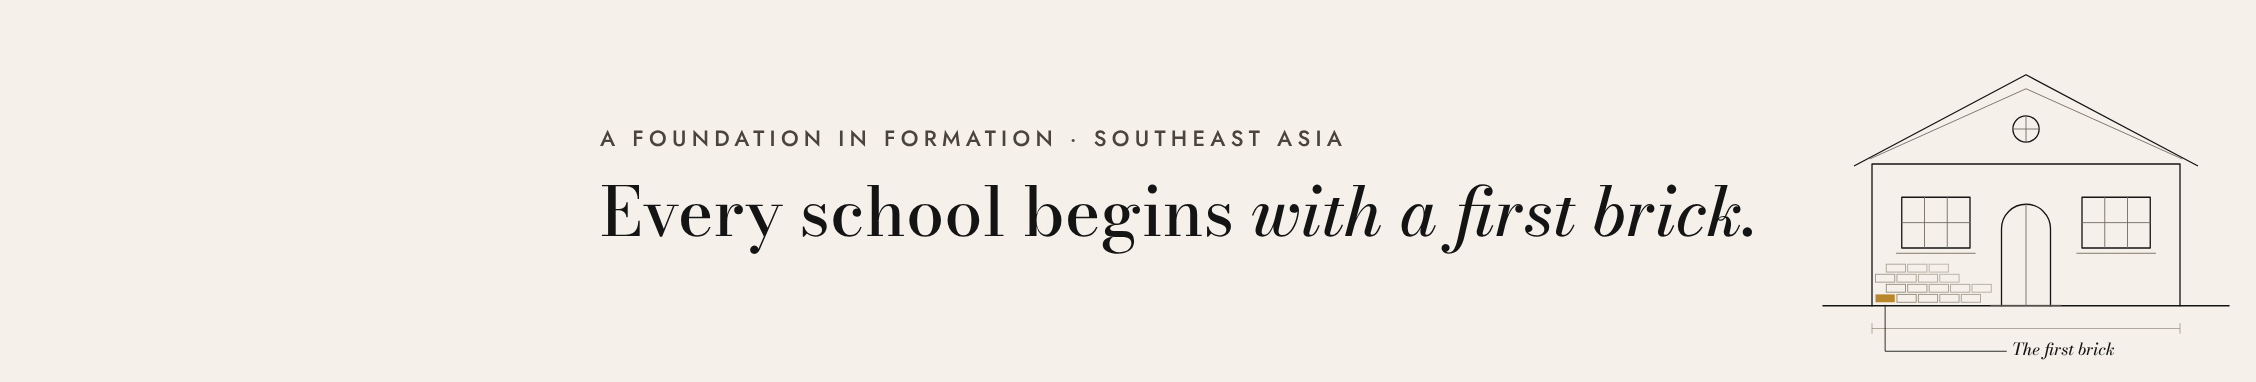
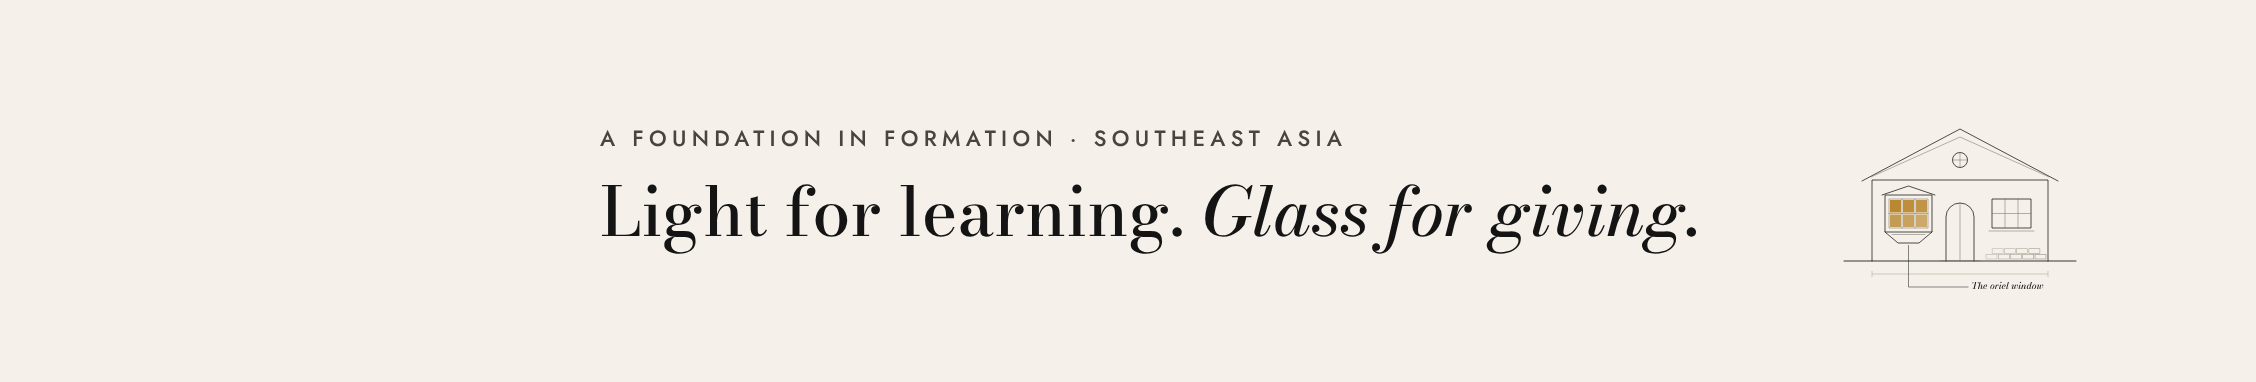
이름 변경: First Brick → Oriel Foundation (오리엘 재단 · 明窗基金會)
- 카피: Light for learning. Glass for giving. / 배움에는 빛을, 기부에는 창을.
- 히어로 입면도의 왼쪽 창을 오리엘 창으로, 금색은 창 유리에만
- 로고·파비콘·단계 아이콘·og·브랜드 이미지·릴스 템플릿 교체
- 활동 일지 첫 글 제목과 주소 변경, 읽을거리 No.1·W44 홍보물 문구 정리

Claude-Session: https://claude.ai/code/session_01WP8fmT9o6LiNAey7aEXGF7

diff --git a/marketing/reel/index.html b/marketing/reel/index.html
@@ -2,11 +2,11 @@
 <html lang="en">
 <head>
 <meta charset="utf-8">
-<title>First Brick reel</title>
+<title>Oriel reel</title>
 <!-- 1080×1920 결정적 모션: window.seek(t)로 프레임을 그린다. 문구·장면은 reel.js(window.REEL = reel.json 내용)에서 읽는다. -->
 <link href="https://fonts.googleapis.com/css2?family=Bodoni+Moda:ital,opsz,wght@0,6..96,400..600;1,6..96,400..500&family=Jost:wght@300..500&family=Noto+Sans+KR:wght@400;500&family=Nanum+Myeongjo:wght@400;700&display=block" rel="stylesheet">
 <style>
-/* 메종 톤: 아이보리 · 먹 · 밤의 남색 · 금색은 첫 벽돌 하나에만 */
+/* 메종 톤: 아이보리 · 먹 · 밤의 남색 · 금색은 오리엘 창의 유리에만 */
 :root { --paper:#F5F1EA; --ink:#141414; --muted:#4A443C; --text:#26221E; --line:#6F685E; --rule:#CBC1B0; --blue:#1B2440; --mari:#B8862D; }
 html,body { margin:0; width:1080px; height:1920px; overflow:hidden; background:var(--paper); }
 #stage * { font-variation-settings:"opsz" 11 !important; }
@@ -23,8 +23,10 @@ html,body { margin:0; width:1080px; height:1920px; overflow:hidden; background:v
 .lang-ko .h.it { font-style:normal; }
 .lang-ko .p { font-family:"Noto Sans KR"; }
 .step { position:absolute; left:120px; right:120px; text-align:center; }
-.step .course { display:flex; gap:10px; margin:0 auto 14px; width:440px; }
-.step .course i { height:24px; flex:1; box-sizing:border-box; border:2px solid var(--line); }
+.step .win { width:330px; margin:0 auto; border:3px solid var(--ink); padding:8px; }
+.step .course { display:flex; gap:8px; margin:0 0 8px; }
+.step .course:last-child { margin-bottom:0; }
+.step .course i { height:44px; flex:1; box-sizing:border-box; outline:1.5px solid var(--line); outline-offset:3px; }
 .step h3 { margin:26px 0 12px; font:500 80px/1 "Bodoni Moda","Nanum Myeongjo",serif; font-variation-settings:"opsz" 11; }
 .step p { margin:0 auto; font:400 40px/1.45 Jost,"Noto Sans KR",sans-serif; color:var(--text); max-width:820px; }
 .end { position:absolute; inset:0; background:var(--blue); color:var(--paper); }
@@ -50,23 +52,27 @@ html,body { margin:0; width:1080px; height:1920px; overflow:hidden; background:v
   const ease = (x) => x <= 0 ? 0 : x >= 1 ? 1 : 1 - Math.pow(1 - x, 3);
   const win = (t, a, b) => ease((t - a) / (b - a));
   const el = (tag, cls, html) => { const e = document.createElement(tag); if (cls) e.className = cls; if (html != null) e.innerHTML = html; return e; };
-  const mark = '<b>FIRST BRICK</b><small>FOUNDATION</small>';
+  const mark = '<b>ORIEL</b><small>FOUNDATION</small>';
 
-  // 학교 입면도 (사이트 히어로와 같은 그림: 가는 선, 첫 벽돌만 금잔화색)
+  // 학교 입면도 (사이트 히어로와 같은 그림: 가는 선, 왼쪽 오리엘 창의 유리만 금빛)
   function houseSVG() {
     const G = 338, bx0 = 64, bx1 = 416, by0 = 176; let k = 0; const P = [];
     const L = (d, cls) => P.push(`<path class="${cls || "ln"}" pathLength="1" data-d="${k++}" d="${d}"/>`);
     L(`M8 ${G}H472`, "ln ground"); L(`M${bx0} ${G}V${by0}H${bx1}V${G}`); L(`M44 ${by0 + 2}L240 74L436 ${by0 + 2}`); L(`M62 ${by0 - 6}L240 90L418 ${by0 - 6}`, "ln thin");
     P.push(`<circle class="ln" pathLength="1" data-d="${k++}" cx="240" cy="136" r="15"/>`); L(`M225 136H255M240 121V151`, "ln thin");
-    for (const x of [98, 304]) { L(`M${x} 214h78v58h-78z`); L(`M${x + 26} 214v58M${x + 52} 214v58M${x} 243h78`, "ln thin"); L(`M${x - 6} 278h90`, "ln thin"); }
+    const ox = 98, oy = 214, ow = 78, oh = 58, glow = [];
+    for (let r = 0; r < 2; r++) for (let c = 0; c < 3; c++) glow.push(`<rect x="${ox + c * 26 + 2}" y="${oy + r * 29 + 2}" width="22" height="25" opacity="${(0.98 - (r * 3 + c) * 0.06).toFixed(2)}"/>`);
+    L(`M${ox - 8} ${oy - 8}h${ow + 16}v${oh + 16}h-${ow + 16}z`); L(`M${ox} ${oy}h${ow}v${oh}h-${ow}z`, "ln thin"); L(`M${ox + 26} ${oy}v${oh}M${ox + 52} ${oy}v${oh}M${ox} ${oy + 29}h${ow}`, "ln thin");
+    L(`M${ox - 14} ${oy - 8}L${ox + ow / 2} ${oy - 26}L${ox + ow + 14} ${oy - 8}`); L(`M${ox - 8} ${oy + oh + 8}L${ox + 18} ${oy + oh + 30}H${ox + ow - 18}L${ox + ow + 8} ${oy + oh + 8}`); L(`M${ox + 6} ${oy + oh + 13}H${ox + ow - 6}`, "ln thin");
+    L(`M304 214h78v58h-78z`); L(`M330 214v58M356 214v58M304 243h78`, "ln thin"); L(`M298 278h90`, "ln thin");
     L(`M212 ${G}V250a28 28 0 0 1 56 0V${G}`); L(`M240 222V${G}`, "ln thin"); L(`M200 ${G - 0.5}h80`, "ln thin");
     const bw = 22, bh = 9, g = 2.5, H = [];
-    for (let r = 0; r < 4; r++) { const off = r % 2 ? (bw + g) / 2 : 0, n = 5 - (r === 3 ? 2 : r === 2 ? 1 : 0);
-      for (let c = 0; c < n; c++) { if (!r && !c) continue; const x = bx0 + 4 + off + c * (bw + g), y = G - 4 - (r + 1) * (bh + g) + g;
-        H.push(`<rect class="hatch" data-d="${r * 5 + c}" data-o="${(1 - (r * 0.1 + c * 0.07)).toFixed(2)}" x="${x}" y="${y}" width="${bw}" height="${bh}"/>`); } }
-    const fx = bx0 + 4, fy = G - 4 - bh;
+    for (let r = 0; r < 2; r++) { const off = r % 2 ? (bw + g) / 2 : 0, n = r ? 4 : 5;
+      for (let c = 0; c < n; c++) { const x = bx1 - 4 - bw - off - c * (bw + g), y = G - 4 - (r + 1) * (bh + g) + g;
+        H.push(`<rect class="hatch" data-d="${r * 5 + c}" data-o="${(1 - (r * 0.15 + c * 0.1)).toFixed(2)}" x="${x}" y="${y}" width="${bw}" height="${bh}"/>`); } }
+    const cx = ox + ow / 2, cy = oy + oh + 34;
     const wrap = document.createElement("div");
-    wrap.innerHTML = `<svg viewBox="0 0 480 400" style="width:100%;overflow:visible"><style>.ln{fill:none;stroke:#141414;stroke-width:1.6;stroke-linecap:round;stroke-linejoin:round;stroke-dasharray:1}.ln.thin{stroke-width:1.1;stroke:#6F685E}.ln.ground{stroke-width:1.8}.hatch{fill:none;stroke:#857C6F;stroke-width:1.1}.dim{fill:none;stroke:#9C9385;stroke-width:1}.co path{fill:none;stroke:#141414;stroke-width:1.1}.co text{font:italic 500 19px "Bodoni Moda",serif;fill:#141414}</style>${P.join("")}${H.join("")}<rect class="first" x="${fx}" y="${fy}" width="${bw}" height="${bh}" fill="#B8862D"/><path class="dim" d="M${bx0} ${G + 26}H${bx1}M${bx0} ${G + 20}v12M${bx1} ${G + 20}v12"/><g class="co"><path d="M${fx + bw / 2} ${fy + bh + 3}V${G + 52}H${fx + 150}"/><text x="${fx + 156}" y="${G + 56}">${C.lang === "ko" ? "첫 벽돌" : "The first brick"}</text></g></svg>`;
+    wrap.innerHTML = `<svg viewBox="0 0 480 400" style="width:100%;overflow:visible"><style>.ln{fill:none;stroke:#141414;stroke-width:1.6;stroke-linecap:round;stroke-linejoin:round;stroke-dasharray:1}.ln.thin{stroke-width:1.1;stroke:#6F685E}.ln.ground{stroke-width:1.8}.hatch{fill:none;stroke:#857C6F;stroke-width:1.1}.dim{fill:none;stroke:#9C9385;stroke-width:1}.co path{fill:none;stroke:#141414;stroke-width:1.1}.co text{font:italic 500 19px "Bodoni Moda",serif;fill:#141414}</style><g class="first" fill="#B8862D" style="opacity:0">${glow.join("")}</g>${P.join("")}${H.join("")}<path class="dim" d="M${bx0} ${G + 26}H${bx1}M${bx0} ${G + 20}v12M${bx1} ${G + 20}v12"/><g class="co"><path d="M${cx} ${cy}V${G + 52}H${cx + 120}"/><text x="${cx + 126}" y="${G + 56}">${C.lang === "ko" ? "오리엘 창" : "The oriel window"}</text></g></svg>`;
     const svg = wrap.firstChild;
     return { svg, lines: [...svg.querySelectorAll(".ln")], hatch: [...svg.querySelectorAll(".hatch")], first: svg.querySelector(".first"), late: [...svg.querySelectorAll(".dim, .co")] };
   }
@@ -82,16 +88,16 @@ html,body { margin:0; width:1080px; height:1920px; overflow:hidden; background:v
       const head = el("div", "h", s.title || ""); head.style.cssText += "top:350px;font-size:96px;"; L.appendChild(head); s.head = head;
       s.items = s.items.map((it, i) => { const d = el("div", "step"); d.style.top = (620 + i * 410) + "px";
         const tone = ["var(--b1)", "var(--b2)", "var(--b3)"];
-        let courses = ""; for (let c = 0; c <= i; c++) courses += `<div class="course" style="transform:translateX(${c % 2 ? 22 : 0}px)">${[0, 1, 2, 3].map((k) => `<i style="${i === 0 && c === 0 && k === 0 ? "background:var(--mari);border-color:var(--mari)" : ""}"></i>`).join("")}</div>`;
-        d.innerHTML = `<div style="display:flex;flex-direction:column-reverse">${courses}</div><h3>${it[0]}</h3><p>${it[1]}</p>`; L.appendChild(d); return d; });
+        const lit = [2, 4, 6][i] || 6; let courses = ""; for (let r = 0; r < 2; r++) courses += `<div class="course">${[0, 1, 2].map((k) => { const n = r * 3 + k; return `<i style="${n < lit ? `background:var(--mari);opacity:${(1 - n * 0.08).toFixed(2)}` : ""}"></i>`; }).join("")}</div>`;
+        d.innerHTML = `<div class="win">${courses}</div><h3>${it[0]}</h3><p>${it[1]}</p>`; L.appendChild(d); return d; });
     } else if (s.type === "lines") {
       const t = el("div", "h", s.title); t.style.cssText += `top:${(s.top || 420) + 40}px;font-size:${s.size || 112}px;`; L.appendChild(t);
       const body = el("div", "p"); body.style.cssText += `top:${(s.bodyTop || 800) + 40}px;color:var(--ink);`;
       s.tEl = t; s.bodyEl = body;
       s.parts = [t, ...(s.body || []).map((txt) => { const p = el("div", "", txt); p.style.marginBottom = "22px"; body.appendChild(p); return p; })];
       L.appendChild(body);
-      if (s.wall) { const w = el("div"); w.style.cssText = "position:absolute;left:230px;right:230px;top:1330px;display:flex;flex-direction:column-reverse;gap:10px;"; const tone = ["var(--b1)", "var(--b2)", "var(--b3)", "var(--b2)", "var(--b1)"];
-        s.courses = []; for (let c = 0; c < s.wall; c++) { const row = el("div"); row.style.cssText = `display:flex;gap:10px;margin-left:${c % 2 ? 36 : 0}px;margin-right:${c % 2 ? 0 : 36}px;`; row.innerHTML = [0, 1, 2, 3, 4].map((k) => `<i style="display:block;flex:1;height:30px;box-sizing:border-box;border:2px solid ${c === 0 && k === 0 ? "var(--mari)" : "var(--line)"};background:${c === 0 && k === 0 ? "var(--mari)" : "transparent"}"></i>`).join(""); w.appendChild(row); s.courses.push(row); }
+      if (s.wall) { const w = el("div"); w.style.cssText = "position:absolute;left:300px;right:300px;top:1300px;display:flex;flex-direction:column-reverse;gap:10px;border:3px solid var(--ink);padding:12px;";
+        s.courses = []; for (let c = 0; c < s.wall; c++) { const row = el("div"); row.style.cssText = "display:flex;gap:10px;"; row.innerHTML = [0, 1, 2, 3].map((k) => `<i style="display:block;flex:1;height:52px;background:var(--mari);opacity:${(1 - c * 0.12 - k * 0.07).toFixed(2)}"></i>`).join(""); w.appendChild(row); s.courses.push(row); }
         L.appendChild(w); }
     } else if (s.type === "end") {
       L.classList.add("end");
@@ -115,7 +121,7 @@ html,body { margin:0; width:1080px; height:1920px; overflow:hidden; background:v
       if (s.type === "house") {
         s.hs.lines.forEach((el) => { const d = +el.dataset.d, k = win(lt, 0.1 + d * 0.07, 1.1 + d * 0.07); el.style.strokeDashoffset = (1 - k).toFixed(3); });
         s.hs.hatch.forEach((el) => { const d = +el.dataset.d; el.style.opacity = (+el.dataset.o * win(lt, 1.6 + d * 0.03, 2.0 + d * 0.03)).toFixed(3); });
-        const kf = win(lt, 2.3, 2.8); s.hs.first.style.opacity = kf; s.hs.first.setAttribute("transform", `translate(0 ${(-18 * (1 - kf)).toFixed(2)})`);
+        const kf = win(lt, 2.2, 3.0); s.hs.first.style.opacity = kf;
         s.hs.late.forEach((el) => el.style.opacity = win(lt, 2.8, 3.3));
         s.lines.forEach((h, i) => { const k = win(lt, 0.2 + i * 0.35, 0.8 + i * 0.35); h.style.opacity = k; h.style.transform = `translateY(${(30 * (1 - k)).toFixed(1)}px)`; });
         s.cap.style.opacity = win(lt, 3.2, 3.7);

diff --git a/public/style.css b/public/style.css
@@ -1,5 +1,5 @@
-/* First Brick Foundation — maison
-   ivoire(종이) · encre(먹) · bleu nuit(밤의 남색) · or(첫 벽돌 하나에만) */
+/* Oriel Foundation — maison
+   ivoire(종이) · encre(먹) · bleu nuit(밤의 남색) · or(오리엘 창의 유리에만) */
 :root {
   --paper: #F5F1EA;
   --paper-2: #EDE7DC;
@@ -57,7 +57,8 @@ a { color: inherit; }
 .nav .sh { display: none; }
 .nav a:hover, .nav a[aria-current="page"] { color: var(--ink); border-bottom-color: var(--ink); }
 .logo-mark { width: 30px; height: 22px; fill: none; stroke: var(--ink); stroke-width: 1; flex: none; }
-.logo-mark .lm-first { fill: var(--marigold); stroke: var(--marigold); }
+.logo-mark .lm-glow { fill: var(--marigold); stroke: none; }
+.logo-mark .lm-m { stroke-width: .7; }
 .logo-mark.lg { width: 44px; height: 32px; }
 .logo-mark.xl { width: 72px; height: 52px; stroke: var(--line); }
 
@@ -86,23 +87,23 @@ a { color: inherit; }
 .house .ln.thin { stroke-width: 1; stroke: var(--line); }
 .house .ln.ground { stroke-width: 1.7; }
 .house .hatch { fill: none; stroke: #857C6F; stroke-width: 1; opacity: var(--o, 1); }
-.house .first { fill: var(--marigold); }
+.house .glow { fill: var(--marigold); opacity: var(--o, 1); }
 .house .dim path { fill: none; stroke: #9C9385; stroke-width: .9; }
 .house .callout path { fill: none; stroke: var(--ink); stroke-width: 1; }
 .house .callout text { font: italic 500 19px var(--f-disp); fill: var(--ink); }
 .lang-ko .house .callout text { font-style: normal; font-size: 15px; }
 .hero-note { font: italic 400 19px/1.5 var(--f-disp); color: var(--text); margin: 26px auto 0; }
 .lang-ko .hero-note { font-style: normal; font-size: 15px; }
-/* 한 번만: 선이 그려지고 → 재료 표시 → 첫 벽돌이 놓인다 */
+/* 한 번만: 선이 그려지고 → 재료 표시 → 오리엘 창에 불이 들어온다 */
 .js .house .ln { stroke-dasharray: 1; stroke-dashoffset: 1; }
 .js .house.laid .ln { stroke-dashoffset: 0; transition: stroke-dashoffset 1.4s cubic-bezier(.6,.05,.3,1); transition-delay: calc(var(--d) * 80ms + 200ms); }
 .js .house .hatch { opacity: 0; }
 .js .house.laid .hatch { opacity: var(--o, 1); transition: opacity .5s; transition-delay: calc(var(--d) * 25ms + 1500ms); }
-.js .house .first { opacity: 0; transform: translateY(-16px); transform-box: fill-box; }
-.js .house.laid .first { opacity: 1; transform: none; transition: opacity .4s 2.4s, transform .7s cubic-bezier(.25,1.2,.4,1) 2.4s; }
+.js .house .glow { opacity: 0; }
+.js .house.laid .glow { opacity: var(--o, 1); transition: opacity .9s ease-out; transition-delay: calc(var(--g) * 140ms + 2300ms); }
 .js .house .callout, .js .house .dim { opacity: 0; }
 .js .house.laid .callout, .js .house.laid .dim { opacity: 1; transition: opacity .8s 2.9s; }
-@media (prefers-reduced-motion: reduce) { .js .house .ln, .js .house .hatch, .js .house .first, .js .house .callout, .js .house .dim { stroke-dashoffset: 0; opacity: 1; transform: none; transition: none; } }
+@media (prefers-reduced-motion: reduce) { .js .house .ln, .js .house .hatch, .js .house .glow, .js .house .callout, .js .house .dim { stroke-dashoffset: 0; opacity: 1; transform: none; transition: none; } }
 
 .status { display: flex; gap: 12px; align-items: baseline; justify-content: center; text-align: center; margin: clamp(48px, 7vw, 80px) auto 0; padding: 22px 0 0; border-top: 1px solid var(--rule); font-size: 15px; line-height: 1.65; color: var(--text); max-width: 62em; }
 .status .dot { width: 8px; height: 8px; border-radius: 50%; background: var(--marigold); flex: none; transform: translateY(-1px); }
@@ -133,8 +134,9 @@ h3 { font-weight: 400; }
 .path { list-style: none; margin: 0; padding: 0; display: grid; grid-template-columns: repeat(3, minmax(0, 1fr)); gap: clamp(28px, 4vw, 64px); align-items: start; }
 .path li { border-top: 1px solid var(--ink); padding-top: 22px; }
 .course { display: block; width: 100%; max-width: 180px; height: auto; margin-bottom: 26px; }
-.course rect { fill: none; stroke: var(--line); stroke-width: 1.2; }
-.course rect.f { fill: var(--marigold); stroke: var(--marigold); }
+.course path { fill: none; stroke: var(--ink); stroke-width: 1.2; }
+.course path.m { stroke: var(--line); stroke-width: 1; }
+.course rect.f { fill: var(--marigold); }
 .path h3 { font: 500 var(--s3)/1.1 var(--f-disp); margin: 0 0 12px; }
 .path p { font: 400 17px/1.7 var(--f-read); margin: 0; color: var(--text); max-width: 26em; }
 
@@ -241,6 +243,7 @@ h3 { font-weight: 400; }
 /* footer — 가운데 워드마크 */
 .site-foot { margin-top: clamp(96px, 12vw, 160px); border-top: 1px solid var(--rule); padding-top: clamp(64px, 8vw, 96px); text-align: center; }
 .cta-band + .site-foot, main:has(> .cta-band:last-child) + .site-foot { margin-top: 0; }
+.foot-zh { font: 400 15px/1 "Noto Sans TC", sans-serif; letter-spacing: .5em; margin: -6px -.5em 18px 0; color: var(--muted); }
 .foot-mark { font: 400 clamp(30px, 4.4vw, 52px)/1 var(--f-disp); letter-spacing: .26em; text-transform: uppercase; margin: 0 -.26em 18px 0; }
 .foot-tag { font: italic 400 17px/1.5 var(--f-disp); color: var(--muted); margin: 0 0 44px; }
 .lang-ko .foot-tag { font-style: normal; font-family: "Nanum Myeongjo", serif; font-size: 15px; }

diff --git a/public/app.js b/public/app.js
@@ -1,4 +1,4 @@
-// First Brick — 첫 화면: 첫 벽돌이 먼저 놓이고, 나머지가 한 층씩 쌓인다 (한 번만)
+// Oriel — 첫 화면: 도면 선이 그려지고 오리엘 창에 불이 들어온다 (한 번만)
 (function () {
   document.documentElement.classList.add("js");
   var house = document.querySelector(".house");

diff --git a/content/notes/2026-10-27-learning-not-just-enrolment.md b/content/notes/2026-10-27-learning-not-just-enrolment.md
@@ -6,13 +6,13 @@ date: 2026-10-27
 summary: Three things we read this month: a record number of children out of school, a reading gap in Laos, and a decade of crypto giving.
 summary_ko: 이번 달 읽은 세 가지: 사상 최대의 학교 밖 아이들, 라오스의 읽기 격차, 크립토 기부 10년.
 ---
-Each note collects a few things we read that shape how First Brick will work. We summarise in our own words and link to the source, so you can check every number.
+Each note collects a few things we read that shape how Oriel will work. We summarise in our own words and link to the source, so you can check every number.
 
 ## 273 million children are out of school
 
 UNESCO's 2026 Global Education Monitoring Report counts 273 million children and adolescents out of school, the seventh rise in a row: about one in six school-age children worldwide. There is good news inside it too. Vietnam has cut its share of out-of-school children by at least 80% since 2000.
 
-**Why it matters to us:** progress is possible and it is measurable. That is why every First Brick programme will have one simple number we report on.
+**Why it matters to us:** progress is possible and it is measurable. That is why every Oriel programme will have one simple number we report on.
 
 Source: [Vietnam News / VNA, 26 March 2026](https://vietnamnews.vn/society/1778140/viet-nam-makes-progress-in-reducing-proportion-of-out-of-school-children.html)
 
@@ -28,19 +28,19 @@ Source: [Action Education, 10 September 2026](https://action-education.org/sea/e
 
 The Giving Block's 2026 annual report says it processed over $100 million in crypto donations in 2025 and more than $300 million since it started in 2018. The report calls this "the rise of the digital donor".
 
-**Why it matters to us:** more people want to give with digital assets. We think they should also be able to see where every gift goes, which is the promise we are building First Brick around. We are not taking donations yet.
+**Why it matters to us:** more people want to give with digital assets. We think they should also be able to see where every gift goes, which is the promise we are building Oriel around. We are not taking donations yet.
 
 Source: [The Giving Block via Business Wire, March 2026](https://www.businesswire.com/news/home/20260304117830/en)
 <!-- zh -->
-**入學不等於學會。** 聯合國教科文組織 2026 年報告指出，全球有 2.73 億名兒童與青少年失學，越南自 2000 年以來已將失學比例降低至少 80%。寮國萬象省的小學入學率達 94%，但超過六成的三年級學生仍無法流利讀寫寮文。First Brick 的第一步，就是和當地老師一起，把「上學」變成「學會」。同時，加密貨幣捐款持續成長；我們希望每一筆捐款的去向都能公開查證。我們目前尚未接受捐款。
+**入學不等於學會。** 聯合國教科文組織 2026 年報告指出，全球有 2.73 億名兒童與青少年失學，越南自 2000 年以來已將失學比例降低至少 80%。寮國萬象省的小學入學率達 94%，但超過六成的三年級學生仍無法流利讀寫寮文。明窗基金會的第一步，就是和當地老師一起，把「上學」變成「學會」。同時，加密貨幣捐款持續成長；我們希望每一筆捐款的去向都能公開查證。我們目前尚未接受捐款。
 <!-- ko -->
-읽을거리는 퍼스트브릭이 일하는 방식에 영향을 주는 글을 몇 편씩 모아 소개합니다. 우리 말로 요약하고 출처를 달아, 모든 숫자를 직접 확인할 수 있게 합니다.
+읽을거리는 오리엘이 일하는 방식에 영향을 주는 글을 몇 편씩 모아 소개합니다. 우리 말로 요약하고 출처를 달아, 모든 숫자를 직접 확인할 수 있게 합니다.
 
 ## 학교 밖 아이들 2억 7,300만 명
 
 유네스코의 2026년 세계교육현황보고서(GEM)에 따르면 학교에 다니지 못하는 아동·청소년은 2억 7,300만 명으로 7년 연속 늘었습니다. 전 세계 학령기 아이 여섯 명 중 한 명꼴입니다. 반가운 소식도 있습니다. 베트남은 2000년 이후 학교 밖 아이의 비율을 80% 이상 줄였습니다.
 
-**우리에게 중요한 이유:** 나아질 수 있고, 잴 수 있다는 뜻입니다. 그래서 퍼스트브릭의 모든 프로그램에는 보고할 간단한 숫자 하나가 붙습니다.
+**우리에게 중요한 이유:** 나아질 수 있고, 잴 수 있다는 뜻입니다. 그래서 오리엘의 모든 프로그램에는 보고할 간단한 숫자 하나가 붙습니다.
 
 출처: [Vietnam News / VNA, 2026년 3월 26일](https://vietnamnews.vn/society/1778140/viet-nam-makes-progress-in-reducing-proportion-of-out-of-school-children.html)
 
@@ -56,6 +56,6 @@ Action Education과 라오스 비엔티안주 교육체육국이 7개 군에서 
 
 더 기빙 블록(The Giving Block)의 2026년 연례 보고서에 따르면 2025년 한 해 1억 달러 넘는 크립토 기부를 처리했고, 2018년 시작 이후 누적 3억 달러를 넘었습니다. 보고서는 이를 '디지털 기부자의 등장'이라고 부릅니다.
 
-**우리에게 중요한 이유:** 디지털 자산으로 기부하려는 사람이 늘고 있습니다. 그렇다면 모든 기부가 어디로 가는지도 볼 수 있어야 합니다. 퍼스트브릭이 지키려는 약속이 바로 그것입니다. 아직 기부는 받지 않습니다.
+**우리에게 중요한 이유:** 디지털 자산으로 기부하려는 사람이 늘고 있습니다. 그렇다면 모든 기부가 어디로 가는지도 볼 수 있어야 합니다. 오리엘이 지키려는 약속이 바로 그것입니다. 아직 기부는 받지 않습니다.
 
 출처: [The Giving Block / Business Wire, 2026년 3월](https://www.businesswire.com/news/home/20260304117830/en)

diff --git a/docs/ROADMAP.md b/docs/ROADMAP.md
@@ -1,19 +1,17 @@
-# First Brick — roadmap & backlog
+# Oriel Foundation (오리엘 재단 · 明窗基金會) — roadmap & backlog
 
 The daily improvement task reads and updates this file. Top = highest priority. Finished items move to 완료 with a date.
 
 ## 사용자 조치 필요 (세준)
-- [ ] 집에서 Claude 앱 브라우저 창 열기 (Ctrl+Shift+B) → Claude가 텔레그램 채널·페이스북 페이지·링크드인 회사 페이지 개설
-- [ ] 인스타그램 새 계정 @firstbrick.foundation 직접 가입 (가입은 본인만 가능)
+- [ ] 인스타그램 새 계정 @oriel.foundation 직접 가입 (가입은 본인만 가능)
 - [ ] 메트리쿨에 링크드인·인스타·페이스북 연결 → 주 2회 예약 초안 자동 등록
-- [ ] 링크드인 개인 계정에 출범 글 올리기 (바탕화면 `퍼스트브릭_홍보\2026-W44-linkedin-launch.txt`, 릴스 1 첨부)
+- [ ] 링크드인 개인 계정에 출범 글 올리기 (바탕화면 `오리엘_홍보\2026-W44-linkedin-launch.txt`, 릴스 1 첨부)
 - [ ] 메일 주소: FormSubmit 첫 신청 때 오는 활성화 메일에서 "Activate" 누르기 (probe2928@gmail.com)
 - [ ] 비영리 법인 형태 결정 (한국 비영리 사단/재단법인 vs. 해외 등록) — 계획서 '설립 절차' 참고
 - [ ] 첫 현장 방문 일정 → 첫 활동 일지
 - 현장 사진 올리는 법: PC의 `문서\FirstBrick\inbox\<날짜-장소>\` 폴더에 사진 + note.txt(무슨 일이 있었는지, 아이 얼굴이 나온 사진이 있으면 보호자 동의를 받았는지 `consent: yes`) → 다음 날 아침 고도화 작업이 활동 일지로 올림
 
 ## 다음 작업 (Claude)
-- [ ] 텔레그램 채널 @firstbrick_foundation 개설 후 site.json tgChannel 입력
 - [ ] /journal/ 사진 갤러리 라이트박스 (키보드·스와이프)
 - [ ] 뉴스레터 아카이브: 창립 서포터에게 보낸 소식을 /updates/ 로
 - [ ] 국가 선정 페이지 (현지 파트너 확정 후)
@@ -21,10 +19,11 @@ The daily improvement task reads and updates this file. Top = highest priority. 
 - [ ] 페이지별 og 이미지
 
 ## 완료
+- 2026-10-27 이름 변경: First Brick → **Oriel Foundation / 오리엘 재단 / 明窗基金會**. 오리엘 = 벽에서 내민, 빛을 더 들이는 창(배움에는 빛, 기부에는 맑은 창). 카피 'Light for learning. Glass for giving.' / '배움에는 빛을, 기부에는 창을.' 히어로 입면도 왼쪽 창을 오리엘 창으로(유리만 금색), 로고·파비콘 = 받침 달린 창 + 금빛 유리 4칸, 배움/생활/짓기 아이콘 = 밝혀진 유리 2→4→6칸. og·프로필·커버 이미지, 릴스 템플릿 같은 그림으로 교체. **금색은 창 유리에만, 벽돌 모티프는 쓰지 않음.**
 - 2026-10-27 링크드인 프로필 연결 (linkedin.com/in/parksejun1004) — 소개 페이지·푸터
 - 2026-10-27 가독성 고도화: 본문 먹색·17px, 작은 대문자 13px, 선 굵게, 보도니 opsz 11 고정(가로획 보이게)
 - 2026-10-27 디자인 고도화 3: 픽셀 벽돌 학교 → 건축 입면도(가는 선, 첫 벽돌만 금잔화색, 선이 그려지는 모션), 로고·파비콘·단계 번호·배움/생활/짓기 벽돌을 같은 선 드로잉으로 통일
-- 2026-10-27 디자인 고도화 4 (프랑스 메종 톤): Bodoni Moda(제목)+Jost(본문·작은 대문자), 한국어는 나눔명조+Noto Sans KR. 아이보리 #F5F1EA·먹 #141414·밤의 남색 #1B2440, 금색 #B8862D는 첫 벽돌 하나에만. 가운데 워드마크 헤더, 로마 숫자 섹션, 각진 검정 버튼, 밑줄 입력칸. 릴스 템플릿·og 이미지도 같은 톤. **이 톤을 유지할 것 (굵은 산세리프·둥근 모서리·원색 금지).**
+- 2026-10-27 디자인 고도화 4 (프랑스 메종 톤): Bodoni Moda(제목)+Jost(본문·작은 대문자), 한국어는 나눔명조+Noto Sans KR. 아이보리 #F5F1EA·먹 #141414·밤의 남색 #1B2440, 금색 #B8862D는 첫 벽돌 하나에만(→ 2026-10-27 이름 변경 후: 오리엘 창의 유리에만). 가운데 워드마크 헤더, 로마 숫자 섹션, 각진 검정 버튼, 밑줄 입력칸. 릴스 템플릿·og 이미지도 같은 톤. **이 톤을 유지할 것 (굵은 산세리프·둥근 모서리·원색 금지).**
 - 2026-10-27 고도화 2: 파트너 절차 페이지(/partners/ 6단계·선정 기준·기업 협력), FAQ(/faq/), 홈 '지금까지의 장부' 블록 체인, 푸터 채널 링크 자리
 - 2026-10-27 홍보: 릴스 템플릿(marketing/reel), 44주차 런칭 릴스 2편·캡션·링크드인 글, 예약 작업 2개(사이트 매일 10:37, 홍보 월·목 07:53)
 - 2026-10-27 사이트 개설: 영어·한국어, 계획·활동 일지·함께하기·아동보호·투명성·소개, 벽돌 학교 히어로, og 이미지, Pages 배포

diff --git a/marketing/2026-W44/linkedin-launch.md b/marketing/2026-W44/linkedin-launch.md
@@ -4,13 +4,15 @@
 
 For seven years I've worked in the crypto exchange industry. Today I'm starting something different.
 
-First Brick Foundation is a foundation in the making for children in Southeast Asia. The plan is simple and slow on purpose:
+Oriel Foundation is a foundation in the making for children in Southeast Asia. The plan is simple and slow on purpose:
 
 1. Learn — tutoring, books and scholarships, run with local teachers.
 2. Live — meals, clean water, health checks and a safe way to get to school.
 3. Build — classrooms, libraries and, when a community asks for it, a school.
 
-Why a crypto person? Because our industry is good at two things charity often struggles with: moving money across borders cheaply, and keeping records anyone can check. Every gift to First Brick will be traceable on a public blockchain, with a receipt for every payout.
+Why a crypto person? Because our industry is good at two things charity often struggles with: moving money across borders cheaply, and keeping records anyone can check. Every gift to Oriel will be traceable on a public blockchain, with a receipt for every payout.
+
+Why "Oriel"? An oriel is a window that leans out from a wall to catch more light. That's the job: more light for children's learning, and clear glass so anyone can see where every gift goes. In Chinese we are 明窗基金會.
 
 What we will not do: orphanage visits, short trips to play with kids, or photos without a guardian's consent.
 
@@ -23,16 +25,16 @@ Between now and January I'm looking for:
 
 If that's you, or you know who it is, the website is below. I'd be grateful for a comment or a share.
 
-https://probe2928-crypto.github.io/firstbrick/
+https://probe2928-crypto.github.io/oriel/
 
-#FirstBrick #Education #SoutheastAsia #Web3 #Philanthropy #BuildInPublic
+#OrielFoundation #Education #SoutheastAsia #Web3 #Philanthropy #BuildInPublic
 
 ## 한국어 (선택: 같은 날 짧게, 또는 댓글로)
 
 7년 동안 암호화폐 거래소 업계에서 일했습니다. 오늘 조금 다른 일을 시작합니다.
 
-퍼스트브릭 재단은 동남아시아 아이들을 위해 준비 중인 재단입니다. 배움에서 시작해, 아이가 계속 학교에 올 수 있게 하는 생활 지원을 더하고, 마을이 원할 때 교실과 학교를 짓습니다.
+오리엘 재단(明窗基金會)은 동남아시아 아이들을 위해 준비 중인 재단입니다. 배움에서 시작해, 아이가 계속 학교에 올 수 있게 하는 생활 지원을 더하고, 마을이 원할 때 교실과 학교를 짓습니다. 오리엘은 벽에서 내민, 빛을 더 들이는 창입니다. 배움에는 빛을, 기부에는 맑은 창을 내겠다는 뜻입니다.
 
 모든 기부는 공개 블록체인에 기록하고, 모든 지출에 영수증을 붙입니다. 재단 등록을 마치기 전에는 기부를 받지 않습니다. 첫 현지 파트너, 교육·비영리 법률·회계 분야 자문, 창립 서포터를 찾고 있습니다.
 
-https://probe2928-crypto.github.io/firstbrick/ko/
+https://probe2928-crypto.github.io/oriel/ko/

diff --git a/marketing/2026-W44/captions.md b/marketing/2026-W44/captions.md
@@ -1,26 +1,26 @@
 # Captions — week 44
 
 ## Reel 1 — Instagram / Facebook
-Every school begins with a first brick. 🧱
+Light for learning. Glass for giving. 🪟
 
-We're founding First Brick: a foundation for children in Southeast Asia. Learning first, then the everyday support that keeps a child in class, then classrooms and schools built with the communities that ask for them.
+We're founding Oriel Foundation (明窗基金會): a foundation for children in Southeast Asia. Learning first, then the everyday support that keeps a child in class, then classrooms and schools built with the communities that ask for them.
 
 Every gift will be traceable on a public blockchain. We're not taking donations yet — registration comes first.
 
 Join the founding circle: link in bio.
 
 Music: "Eternal Hope" — Kevin MacLeod (incompetech.com), CC BY 3.0
-#FirstBrick #SoutheastAsia #Education #ChildrensEducation #Web3ForGood #OnChainGiving #BuildInPublic
+#OrielFoundation #SoutheastAsia #Education #ChildrensEducation #Web3ForGood #OnChainGiving #BuildInPublic
 
 ## Reel 2 — Instagram / Facebook
-Before we lay a single brick, we wrote down the rules.
+Before we build anything, we wrote down the rules.
 
 Local people lead. Children are never the attraction — no orphanage visits, no short trips to play with kids. Every photo has a guardian's written consent. And every gift will be on-chain, with a receipt for every payout.
 
 Read the full safeguarding policy: link in bio.
 
 Music: "Prelude No 1" — Chris Zabriskie, CC BY 4.0
-#FirstBrick #ResponsibleVolunteering #ChildSafeguarding #SoutheastAsia #Web3ForGood #Transparency
+#OrielFoundation #ResponsibleVolunteering #ChildSafeguarding #SoutheastAsia #Web3ForGood #Transparency
 
 ## Facebook (both reels) — add the link directly
-https://probe2928-crypto.github.io/firstbrick/
+https://probe2928-crypto.github.io/oriel/

diff --git a/content/journal/2026-10-27-opening-the-first-window.md b/content/journal/2026-10-27-opening-the-first-window.md
@@ -1,14 +1,14 @@
 ---
-title: Laying the first brick
-title_ko: 첫 벽돌을 놓으며
+title: Opening the first window
+title_ko: 첫 창을 열며
 date: 2026-10-27
 place: Incheon, Korea
 place_ko: 대한민국 인천
 kind: founder
-summary: Why First Brick exists, what we will do first, and what we will not do.
-summary_ko: 퍼스트브릭을 왜 시작하는지, 무엇을 먼저 하고 무엇은 하지 않을지.
+summary: Why Oriel exists, what we will do first, and what we will not do.
+summary_ko: 오리엘을 왜 시작하는지, 무엇을 먼저 하고 무엇은 하지 않을지.
 ---
-Today First Brick has a name, a website and a plan. It does not yet have a bank account, a wallet or a single donation, and that is on purpose.
+Today Oriel has a name, a website and a plan. It does not yet have a bank account, a wallet or a single donation, and that is on purpose.
 
 ## Why start this way
 
@@ -24,7 +24,7 @@ We will not run orphanage visits or short trips to play with children. We will n
 
 If you'd like to follow along, or help with a skill you already have, [join the founding circle](get-involved/).
 <!-- ko -->
-오늘 퍼스트브릭은 이름과 홈페이지, 계획을 갖게 됐습니다. 아직 은행 계좌도, 지갑도, 기부금 한 푼도 없습니다. 일부러 그렇게 시작합니다.
+오늘 오리엘은 이름과 홈페이지, 계획을 갖게 됐습니다. 아직 은행 계좌도, 지갑도, 기부금 한 푼도 없습니다. 일부러 그렇게 시작합니다.
 
 ## 왜 이렇게 시작하나
 

diff --git a/README.md b/README.md
@@ -1,6 +1,6 @@
-# First Brick Foundation
+# Oriel Foundation
 
-Website of First Brick Foundation (퍼스트브릭 재단) — a foundation in formation for children in Southeast Asia: learning first, then everyday support, then classrooms and schools. Every gift will be traceable on-chain.
+Website of Oriel Foundation (오리엘 재단) — a foundation in formation for children in Southeast Asia: learning first, then everyday support, then classrooms and schools. Every gift will be traceable on-chain.
 
 - English at `/`, Korean at `/ko/`
 - Static build, Node 22, no dependencies: `node scripts/build.mjs` → `dist/`, preview with `node scripts/serve.mjs` (http://localhost:4400)

diff --git a/marketing/2026-W44/README.md b/marketing/2026-W44/README.md
@@ -2,8 +2,8 @@
 
 | # | What | Where | Status |
 |---|---|---|---|
-| 1 | Reel 1 "Every school begins with a first brick" (15s) | reel1/ | ready to post |
-| 2 | Reel 2 "Before we lay a single brick, we wrote down the rules" (15s) | reel2/ | ready to post |
+| 1 | Reel 1 "Light for learning. Glass for giving." (15s) | reel1/ | ready to post |
+| 2 | Reel 2 "Before we build anything, we wrote down the rules" (15s) | reel2/ | ready to post |
 | 3 | LinkedIn founding announcement (EN + KO) | linkedin-launch.md | ready |
 | 4 | Instagram / Facebook captions | captions.md | ready |
 
